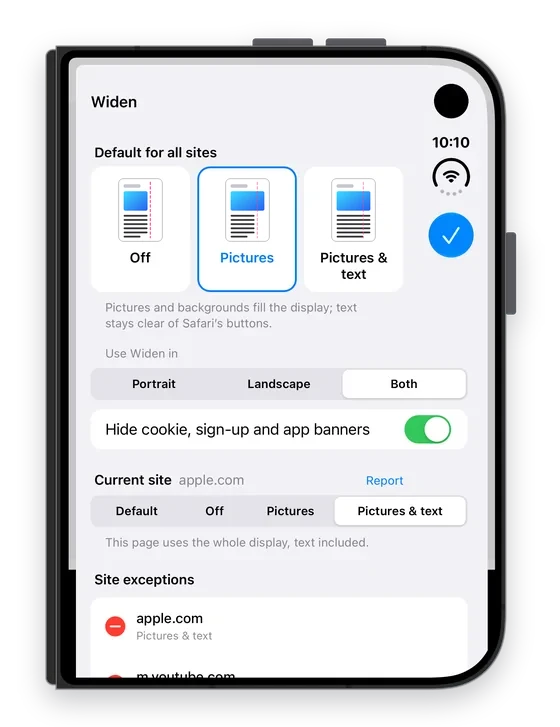
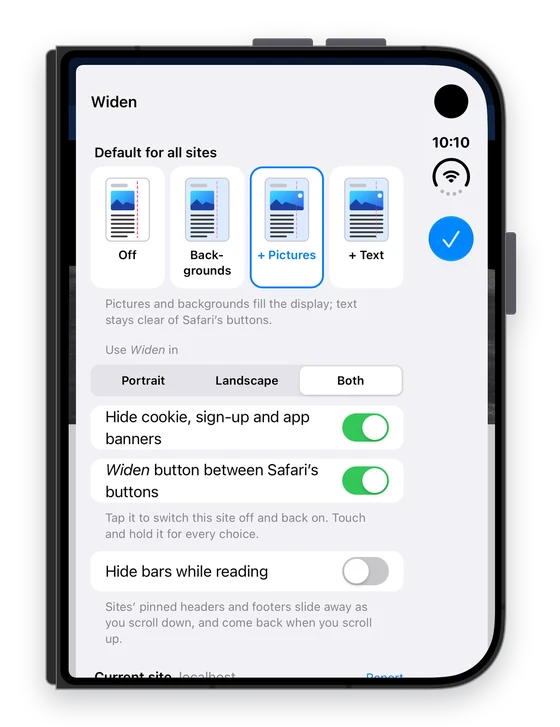
Site for 1.0.4: four ways to read (+ names), new panel picture and the button's touch-and-hold menu; FAQ updated

diff --git a/index.html b/index.html
@@ -20,7 +20,7 @@
 <link rel="icon" type="image/png" sizes="32x32" href="img/favicon-32.png?v=3">
 <link rel="icon" type="image/png" sizes="16x16" href="img/favicon-16.png?v=3">
 <link rel="apple-touch-icon" href="img/apple-touch-icon.png?v=3">
-<link rel="stylesheet" href="style.css?v=af453d93">
+<link rel="stylesheet" href="style.css?v=f96f232d">
 <link rel="canonical" href="https://widen.challis.com.au/">
 <script type="application/ld+json">{"@context": "https://schema.org", "@type": "MobileApplication", "name": "Widen for iPhone Duo", "alternateName": "Widen", "url": "https://widen.challis.com.au/", "description": "A Safari extension that lets web pages use the whole outer display of the iPhone Duo, running under Safari's side column of buttons while text stays readable.", "applicationCategory": "UtilitiesApplication", "operatingSystem": "iOS", "image": "https://widen.challis.com.au/img/icon.png?v=3", "downloadUrl": "https://apps.apple.com/app/id6824905949", "sameAs": ["https://apps.apple.com/app/id6824905949"], "offers": {"@type": "Offer", "price": "3.99", "priceCurrency": "USD"}, "publisher": {"@type": "Organization", "name": "Challis & Company"}}</script>
 </head>
@@ -74,11 +74,11 @@
         <div class="slide" data-site="Wikipedia">
           <div class="flip-pics">
             <img class="pic-before" src="img/before.webp?v=8" width="860" height="1117" alt="Wikipedia's iPhone Duo article in Safari on the closed iPhone Duo, without Widen: the page stops well short of Safari's buttons, leaving an empty band">
-            <img class="pic-after" src="img/after.webp?v=8" width="860" height="1117" alt="The same article with Widen in Pictures &amp; text mode: the article text and info box run the full width of the display">
+            <img class="pic-after" src="img/after.webp?v=8" width="860" height="1117" alt="The same article with Widen in + Text mode: the article text and info box run the full width of the display">
           </div>
           <p class="slide-cap"><b>Wikipedia</b>
             <span class="cap-before">The page stops short; the band by the buttons is empty.</span>
-            <span class="cap-after">In <strong>Pictures &amp; text</strong>, the article runs the full width.</span></p>
+            <span class="cap-after">In <strong>+ Text</strong>, the article runs the full width.</span></p>
         </div>
         <div class="slide" data-site="The New York Times">
           <div class="flip-pics">
@@ -117,7 +117,7 @@
   <div class="wrap scroll-wrap">
     <span class="kicker">See it scroll</span>
     <h2>A whole article, edge to edge</h2>
-    <p class="intro">In <strong>Pictures &amp; text</strong> mode, every line runs the full width, under Safari&rsquo;s buttons, and the page scrolls straight up and down.</p>
+    <p class="intro">In <strong>+ Text</strong>, every line runs the full width, under Safari&rsquo;s buttons, and the page scrolls straight up and down.</p>
     <figure class="scroll-demo">
       <div class="duo-video">
         <video src="img/scroll.mp4?v=4" poster="img/scroll-poster.jpg?v=2" width="620" height="902" autoplay muted loop playsinline preload="metadata" aria-label="Scrolling Wikipedia's iPhone Duo article with Widen in Pictures and text mode"></video>
@@ -136,7 +136,7 @@
       <p class="intro">Stretching a page is the easy part. <em>Widen</em> spends most of its effort on what happens next.</p>
       <ol class="notes">
         <li><b>Pictures reach the edge.</b> In the standard <strong>Pictures</strong> mode, photos, maps, tables and backgrounds fill the full width behind Safari&rsquo;s see-through buttons, while text runs up to them and stops, so nothing you&rsquo;re reading is hidden.</li>
-        <li><b>Text too, if you choose.</b> In <strong>Pictures</strong> mode, the text runs up to the buttons. Prefer every line to run the full width? Choose <strong>Pictures &amp; text</strong>, for every site or just the ones you pick. It&rsquo;s your call.</li>
+        <li><b>Text too, if you choose.</b> In <strong>Pictures</strong> mode, the text runs up to the buttons. Prefer every line to run the full width? Choose <strong>+ Text</strong>, for every site or just the ones you pick. It&rsquo;s your call.</li>
         <li><b>The camera keeps its corner.</b> A site&rsquo;s own top bar is kept clear of Safari&rsquo;s buttons, so its menu and search buttons never end up behind the lens.</li>
         <li><b>Scrolling stays straight.</b> A page wider than the window would normally wobble left and right as you scroll; <em>Widen</em> holds it steady. Pinch-zoom is untouched.</li>
       </ol>
@@ -150,19 +150,19 @@
   <div class="wrap">
     <span class="kicker">Why <em>Widen</em></span>
     <h2>More features than any other iPhone Duo Safari extension</h2>
-    <p class="intro">Many extensions for the iPhone Duo give you just one on/off switch for every site. <em>Widen</em> gives you three choices: <strong>Off</strong>, <strong>Pictures</strong> and <strong>Pictures &amp; text</strong>. And that&rsquo;s just the start.</p>
+    <p class="intro">Many extensions for the iPhone Duo give you just one on/off switch for every site. <em>Widen</em> gives you four: <strong>Off</strong>, <strong>Backgrounds</strong>, <strong>+ Pictures</strong> and <strong>+ Text</strong>. And that&rsquo;s just the start.</p>
     <dl class="extras">
-      <div><dt><span class="dot c-red"></span>Nothing hidden behind the buttons</dt><dd>In <strong>Pictures</strong> mode, text runs up to Safari&rsquo;s buttons and stops, so you never have to nudge the page to read the end of a line. <strong>Pictures &amp; text</strong> is there if you want every line full width.</dd></div>
+      <div><dt><span class="dot c-red"></span>Nothing hidden behind the buttons</dt><dd>In <strong>Pictures</strong> mode, text runs up to Safari&rsquo;s buttons and stops, so you never have to nudge the page to read the end of a line. <strong>+ Text</strong> is there if you want every line full width.</dd></div>
       <div><dt><span class="dot c-teal"></span>One-tap <em>Widen</em> button</dt><dd>A button in the gap between Safari&rsquo;s buttons switches the site you&rsquo;re reading between Safari&rsquo;s usual layout and yours. You can hide it in the panel.</dd></div>
       <div><dt><span class="dot c-purple"></span>Split View</dt><dd>Open your iPhone Duo with Safari beside another app and <em>Widen</em> fills the column Safari keeps there too. Pick which side Safari&rsquo;s buttons are on in the panel.</dd></div>
       <div><dt><span class="dot c-green"></span>Private Browsing</dt><dd>Private tabs are widened too, once you&rsquo;ve allowed <em>Widen</em> in Private Browsing.</dd></div>
       <div><dt><span class="dot c-orange"></span>Portrait, Landscape or Both</dt><dd>Choose whether <em>Widen</em> works in <strong>Portrait</strong>, <strong>Landscape</strong> or <strong>Both</strong>.</dd></div>
-      <div><dt><span class="dot c-navy"></span>A setting for each site</dt><dd>Leave a site on the default, or give it its own: <strong>Off</strong>, <strong>Pictures</strong> or <strong>Pictures &amp; text</strong>. The panel lists every site you&rsquo;ve set, so you can change or remove any of them.</dd></div>
+      <div><dt><span class="dot c-navy"></span>A setting for each site</dt><dd>Leave a site on the default, or give it its own: <strong>Off</strong>, <strong>Backgrounds</strong>, <strong>+ Pictures</strong> or <strong>+ Text</strong>. Or touch and hold the <em>Widen</em> button beside Safari&rsquo;s. The panel lists every site you&rsquo;ve set, so you can change or remove any of them.</dd></div>
       <div><dt><span class="dot c-teal"></span>Fix and widen desktop-only sites</dt><dd>Sites built only for computers are skipped, unless you ask. Turn it on for one, and <em>Widen</em> first shrinks the page to fit, then widens it like any other.</dd></div>
       <div><dt><span class="dot c-purple"></span>Clear the clutter</dt><dd>A small display and pop-ups don&rsquo;t mix. <em>Widen</em> hides the cookie notices and &ldquo;join our mailing list&rdquo; boxes that pin themselves over the page, so you see the page, not the banners. Prefer to see them? Switch it off in the panel.</dd></div>
-      <div><dt><span class="dot c-green"></span>Apple Shortcuts</dt><dd>In Apple&rsquo;s Shortcuts app, <strong>Set Widen</strong> picks <strong>Off</strong>, <strong>Pictures</strong> or <strong>Pictures &amp; text</strong>, and <strong>Toggle Widen</strong> flips between <strong>Off</strong> and <strong>Pictures</strong>. Use them in your own shortcuts and automations.</dd></div>
+      <div><dt><span class="dot c-green"></span>Apple Shortcuts</dt><dd>In Apple&rsquo;s Shortcuts app, <strong>Set Widen</strong> picks <strong>Off</strong>, <strong>Backgrounds</strong>, <strong>+ Pictures</strong> or <strong>+ Text</strong>, and <strong>Toggle Widen</strong> flips between <strong>Off</strong> and <strong>Pictures</strong>. Use them in your own shortcuts and automations.</dd></div>
       <div><dt><span class="dot c-red"></span>Siri</dt><dd>Say &ldquo;Toggle Widen&rdquo;, or &ldquo;Set Widen&rdquo; and Siri asks which mode, without opening Safari&rsquo;s menu.</dd></div>
-      <div><dt><span class="dot c-orange"></span>Control Center</dt><dd>Switch modes without opening Safari&rsquo;s menu. Add the <em>Widen</em> button to Control Center; each tap steps through Off, Pictures and Pictures &amp; text, and the button shows which is on.</dd></div>
+      <div><dt><span class="dot c-orange"></span>Control Center</dt><dd>Switch modes without opening Safari&rsquo;s menu. Add the <em>Widen</em> button to Control Center; each tap steps through Off, Backgrounds, + Pictures and + Text, and the button shows which is on.</dd></div>
       <div><dt><span class="dot c-navy"></span>Light on Safari</dt><dd>Under 1&nbsp;MB to install. <em>Widen</em> adjusts each page in a fraction of a second as it loads, then stays out of the way.</dd></div>
       <div><dt><span class="dot c-teal"></span>No subscription</dt><dd>Pay once and it&rsquo;s yours for life, on every iPhone Duo signed in to your Apple Account and, through Family Sharing, your family&rsquo;s too. Nothing renews.</dd></div>
       <div><dt><span class="dot c-purple"></span>Privacy assured</dt><dd>No account to create and no tracking. Your settings never leave your iPhone.</dd></div>
@@ -175,7 +175,7 @@
     <span class="kicker">The settings</span>
     <h2>Everything in one panel, right in Safari</h2>
     <p class="intro">Choose <strong>Widen</strong> from Safari&rsquo;s page menu and every option is there, on the page you&rsquo;re looking at. No digging through the Settings app.</p>
-    <figure class="panel-one"><img src="img/panel.webp?v=11" width="560" height="727" loading="lazy" alt="Widen's panel in Safari, full screen: Default for all sites with Off, Pictures and Pictures &amp; text; Portrait, Landscape or Both; banner hiding on; the current site, apple.com, set to Pictures &amp; text; and site exceptions"><figcaption>The default for every site, when <em>Widen</em> works, banner hiding, the site you&rsquo;re on, and your exceptions: one screen.</figcaption></figure>
+    <div class="panel-pair"><figure class="panel-one"><img src="img/panel.webp?v=12" width="560" height="727" loading="lazy" alt="Widen's panel in Safari: Default for all sites with Off, Backgrounds, + Pictures and + Text; Portrait, Landscape or Both; banner hiding and the Widen button switched on"><figcaption>The default for every site, when <em>Widen</em> works, banner hiding, the site you&rsquo;re on, and your exceptions: one screen.</figcaption></figure><figure class="panel-one"><img src="img/menu-hold.webp?v=1" width="560" height="727" loading="lazy" alt="Touching and holding the Widen button beside Safari's buttons opens a menu: Off, Backgrounds, + Pictures, + Text and Settings"><figcaption>Or touch and hold the <em>Widen</em> button for every choice on the site you&rsquo;re on.</figcaption></figure></div>
   </div>
 </section>
 

diff --git a/support/index.html b/support/index.html
@@ -17,7 +17,7 @@
 <meta name="twitter:card" content="summary_large_image">
 <link rel="icon" type="image/png" sizes="32x32" href="../img/favicon-32.png?v=3">
 <link rel="icon" type="image/png" sizes="16x16" href="../img/favicon-16.png?v=3">
-<link rel="stylesheet" href="../style.css?v=af453d93">
+<link rel="stylesheet" href="../style.css?v=f96f232d">
 <link rel="apple-touch-icon" href="../img/apple-touch-icon.png?v=3">
 <link rel="canonical" href="https://widen.challis.com.au/support/">
 </head>
@@ -44,7 +44,7 @@
       <li><strong>Nothing changes at all?</strong> In <strong>Settings › Apps › Safari › Extensions › Widen</strong>, check that <strong>Allow Extension</strong> is on and <strong>All Websites</strong> is set to <strong>Allow</strong>. Then reload the page.</li>
       <li><strong><em>Widen</em> keeps switching itself off?</strong> Turn off <strong>Share Across Devices</strong> in <strong>Settings › Apps › Safari › Extensions</strong>. Another device can otherwise switch it off on this one.</li>
       <li><strong>Widen&rsquo;s panel says it can&rsquo;t see the page?</strong> Safari hasn&rsquo;t given it access to that site. Allow it as above, or from the puzzle-piece icon in Safari&rsquo;s page menu.</li>
-      <li><strong>One site stays narrow?</strong> It probably has a desktop layout. Open <em>Widen</em>&rsquo;s panel on that site, set it to <strong>Pictures</strong> or <strong>Pictures &amp; text</strong>, and tick <strong>Widen its desktop layout too</strong>.</li>
+      <li><strong>One site stays narrow?</strong> It probably has a desktop layout. Open <em>Widen</em>&rsquo;s panel on that site, set it to <strong>+ Pictures</strong> or <strong>+ Text</strong>, and tick <strong>Widen its desktop layout too</strong>.</li>
       <li><strong>A site looks wrong when widened?</strong> Set that site to <strong>Off</strong> for now, and please tell us which one.</li>
       <li><strong>Only works one way up?</strong> Check the Portrait / Landscape selector in <em>Widen</em>&rsquo;s panel.</li>
       <li><strong>Bought it on another iPhone Duo, or through your family?</strong> Open the <em>Widen</em> app on that iPhone Duo and restore your purchase. It works with your own Apple Account, or a family member&rsquo;s through Family Sharing.</li>

diff --git a/faq/index.html b/faq/index.html
@@ -17,7 +17,7 @@
 <meta name="twitter:card" content="summary_large_image">
 <link rel="icon" type="image/png" sizes="32x32" href="../img/favicon-32.png?v=3">
 <link rel="icon" type="image/png" sizes="16x16" href="../img/favicon-16.png?v=3">
-<link rel="stylesheet" href="../style.css?v=af453d93">
+<link rel="stylesheet" href="../style.css?v=f96f232d">
 <link rel="apple-touch-icon" href="../img/apple-touch-icon.png?v=3">
 <link rel="canonical" href="https://widen.challis.com.au/faq/">
 </head>
@@ -74,8 +74,8 @@
         <p>Not in the standard <strong>Pictures</strong> mode: text runs up to the buttons and stops, and only pictures, tables and backgrounds go behind them. If you&rsquo;d rather have every line full width, choose <strong>Pictures &amp; text</strong>. Site headers and menus stay clear of the camera either way.</p>
       </details>
       <details>
-        <summary>What are Off, Pictures and Pictures &amp; text?</summary>
-        <ul class=\"modes\"><li><strong>Off</strong>: Safari as usual.</li><li><strong>Pictures</strong>: photos, backgrounds and tables use the full width; text stops at Safari&rsquo;s buttons.</li><li><strong>Pictures &amp; text</strong>: text runs under the buttons too.</li></ul>
+        <summary>What are Off, Backgrounds, + Pictures and + Text?</summary>
+        <ul class=\"modes\"><li><strong>Off</strong>: Safari as usual.</li><li><strong>Backgrounds</strong>: the page&rsquo;s colours and pinned bars reach the edge; pictures and text keep Safari&rsquo;s usual width.</li><li><strong>+ Pictures</strong>: photos, backgrounds and tables use the full width too; text stops at Safari&rsquo;s buttons.</li><li><strong>+ Text</strong>: text runs under the buttons too.</li></ul>
         <p>Choose one as the default for every site, and a different one for any site you like.</p>
       </details>
       <details>

diff --git a/setup/index.html b/setup/index.html
@@ -17,7 +17,7 @@
 <meta name="twitter:card" content="summary_large_image">
 <link rel="icon" type="image/png" sizes="32x32" href="../img/favicon-32.png?v=3">
 <link rel="icon" type="image/png" sizes="16x16" href="../img/favicon-16.png?v=3">
-<link rel="stylesheet" href="../style.css?v=af453d93">
+<link rel="stylesheet" href="../style.css?v=f96f232d">
 <link rel="apple-touch-icon" href="../img/apple-touch-icon.png?v=3">
 <link rel="canonical" href="https://widen.challis.com.au/setup/">
 </head>
@@ -56,7 +56,7 @@
         <div class="howto">
           <figure><img src="../img/menu-button.webp?v=10" width="560" height="727" loading="lazy" alt="Safari on the closed iPhone Duo with the menu button at the left of the address bar circled"><figcaption>Tap the menu button</figcaption></figure>
           <figure><img src="../img/menu-widen.webp?v=10" width="560" height="727" loading="lazy" alt="Safari's page menu open, with Widen near the bottom circled"><figcaption>Choose <em>Widen</em></figcaption></figure>
-        <figure><img src="../img/panel.webp?v=11" width="560" height="727" loading="lazy" alt="Widen's panel in Safari, full screen"><figcaption>Choose a mode</figcaption></figure></div>
+        <figure><img src="../img/panel.webp?v=12" width="560" height="727" loading="lazy" alt="Widen's panel in Safari, full screen"><figcaption>Choose a mode</figcaption></figure></div>
       </li>
       <li>
         <div><span class="where">Optional, in Control Center</span>

diff --git a/style.css b/style.css
@@ -256,6 +256,8 @@ html { scroll-padding-top: 64px; }
 .path { font-weight: 600; color: var(--ink); }
 
 .panel-one { max-width: 320px; margin: 28px auto 0; text-align: center; }
+.panel-pair { display: flex; flex-wrap: wrap; justify-content: center; gap: 0 28px; }
+.panel-pair .panel-one { flex: 1 1 260px; margin-left: 0; margin-right: 0; }
 .panel-one img { display: block; width: 100%; height: auto; }
 .panel-one figcaption { font-size: .9rem; color: var(--soft); margin-top: 4px; }
 .panels { display: grid; grid-template-columns: repeat(2, minmax(0, 300px)); justify-content: center; gap: 24px; margin-top: 28px; }

diff --git a/privacy/index.html b/privacy/index.html
@@ -17,7 +17,7 @@
 <meta name="twitter:card" content="summary_large_image">
 <link rel="icon" type="image/png" sizes="32x32" href="../img/favicon-32.png?v=3">
 <link rel="icon" type="image/png" sizes="16x16" href="../img/favicon-16.png?v=3">
-<link rel="stylesheet" href="../style.css?v=af453d93">
+<link rel="stylesheet" href="../style.css?v=f96f232d">
 <link rel="apple-touch-icon" href="../img/apple-touch-icon.png?v=3">
 <link rel="canonical" href="https://widen.challis.com.au/privacy/">
 </head>
